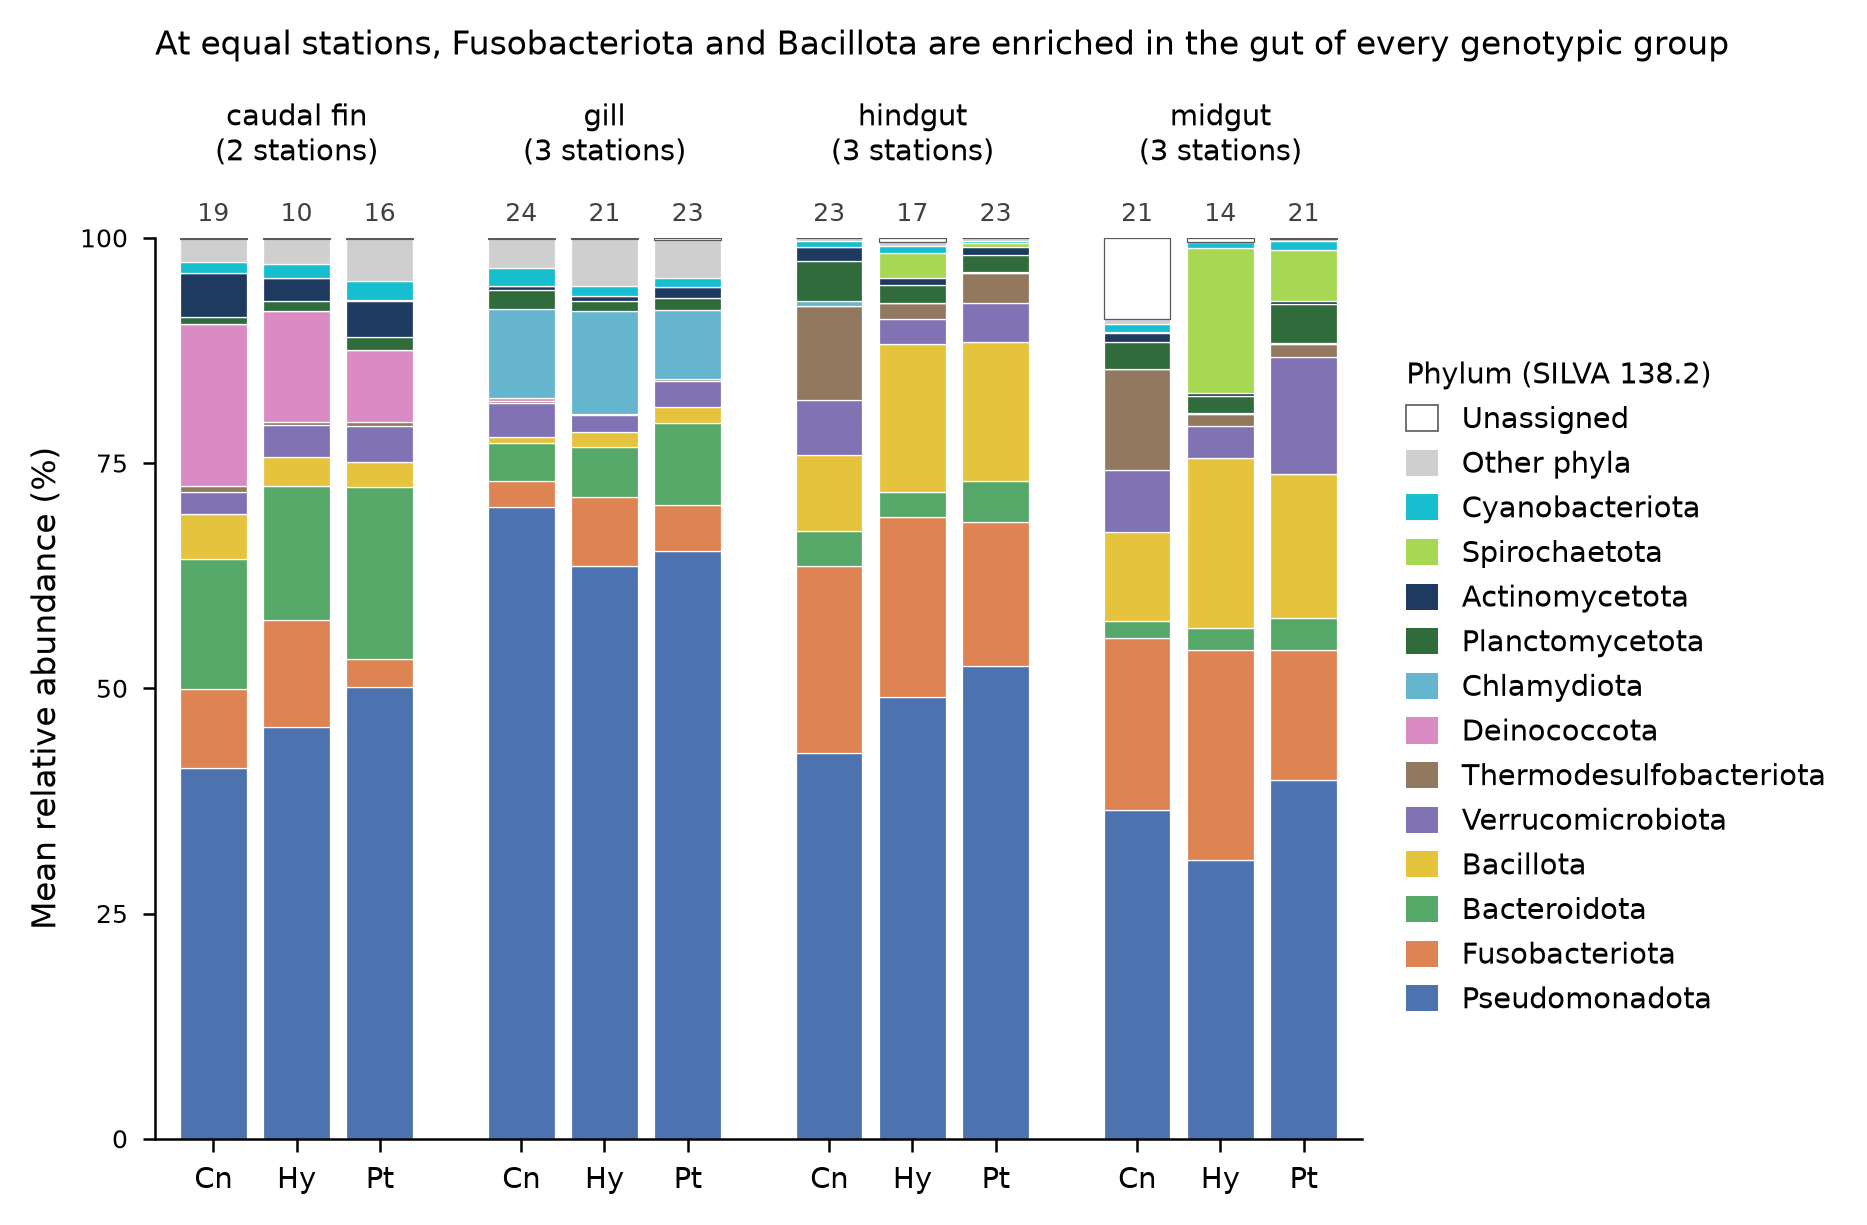
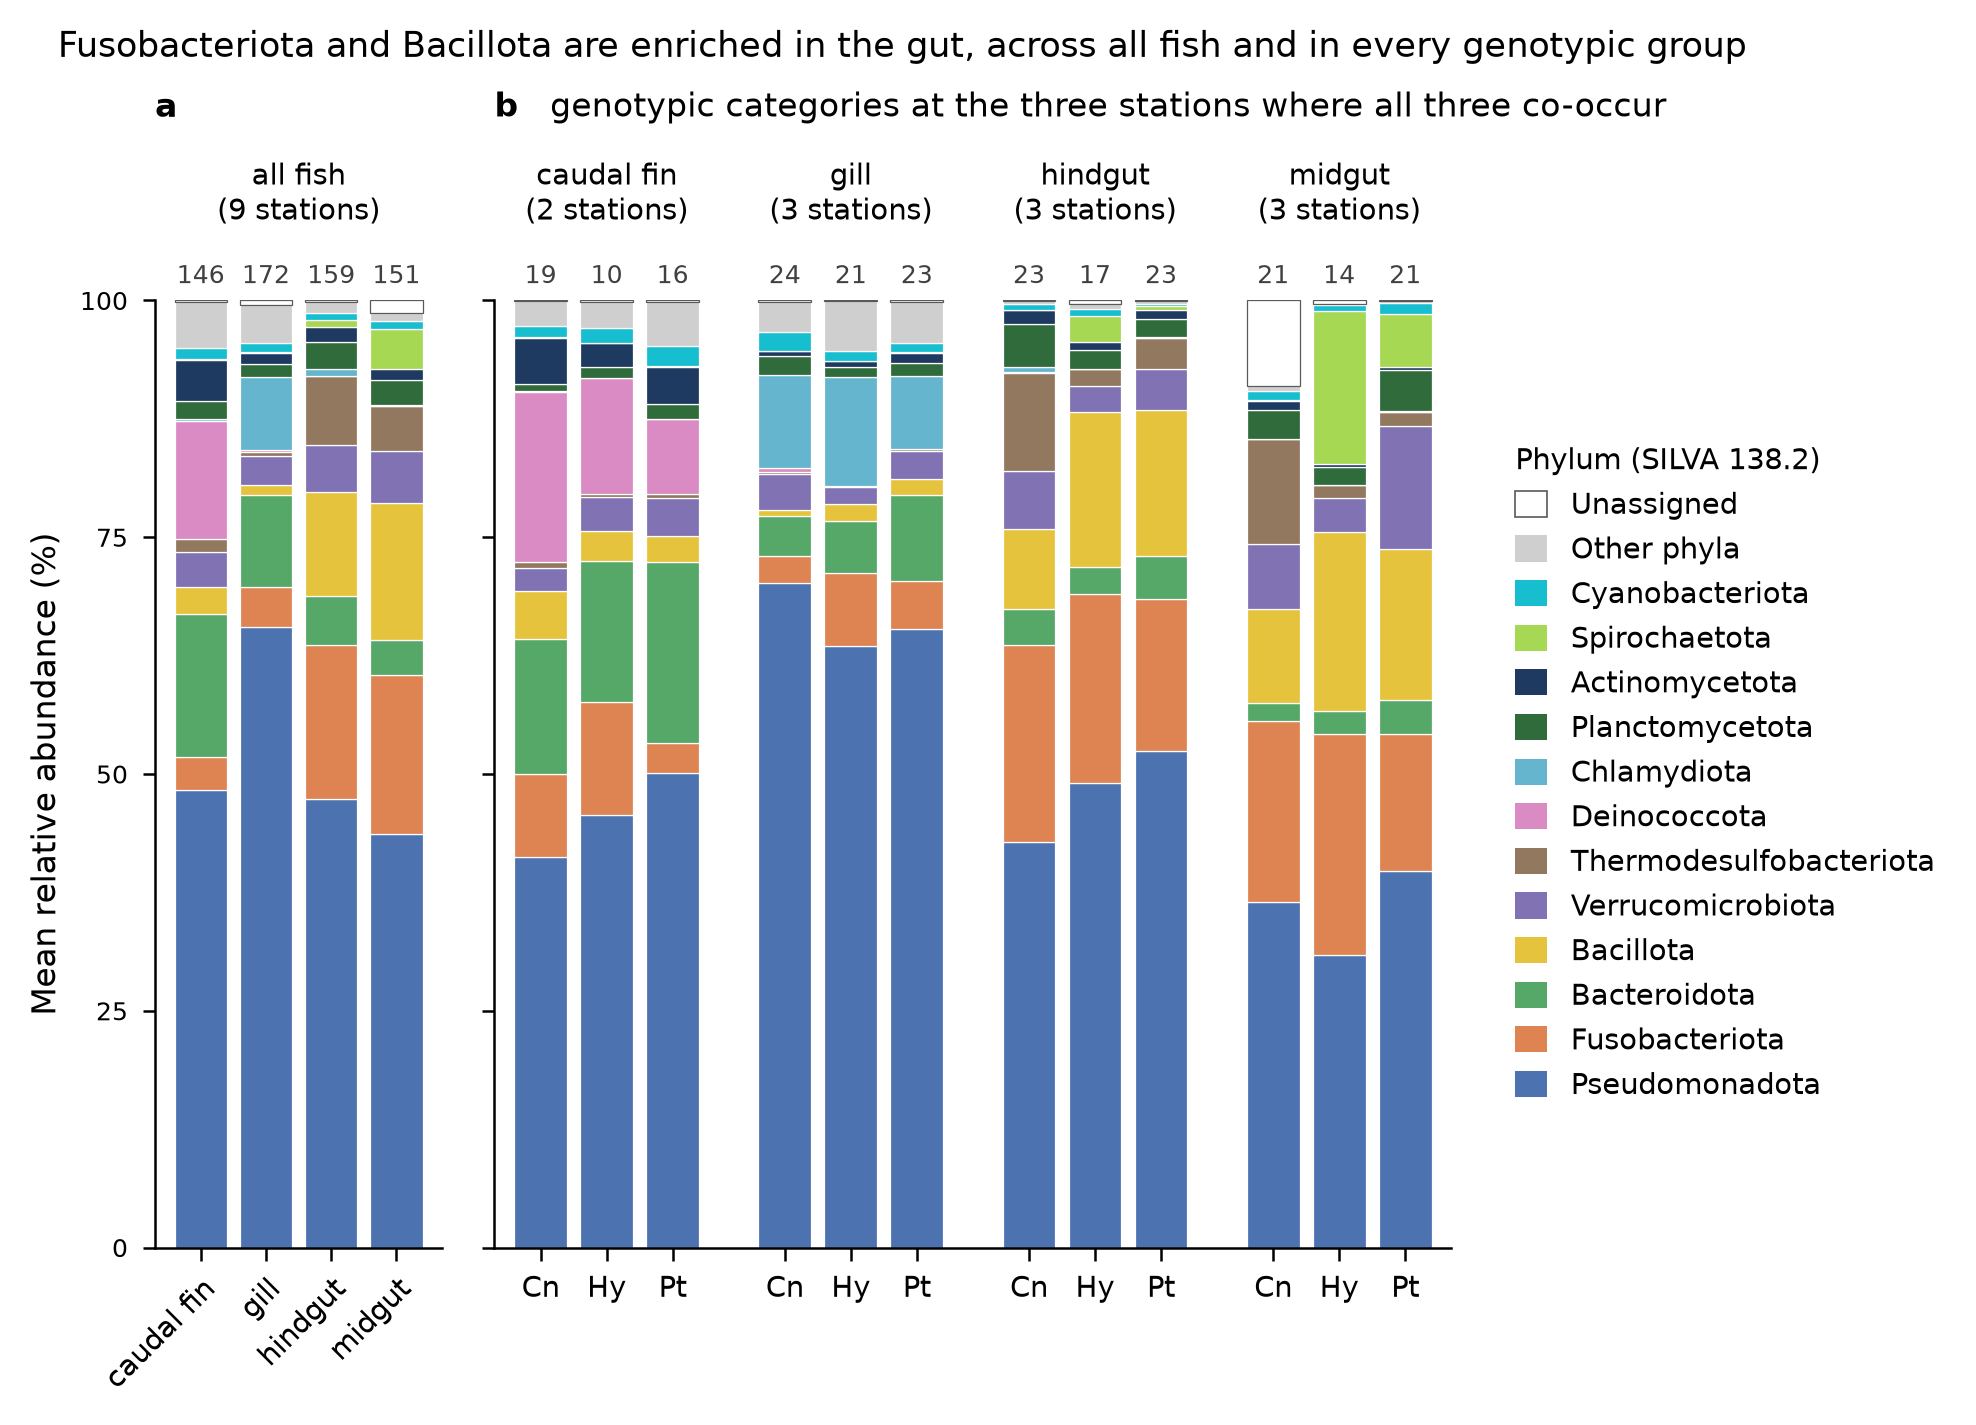
docs: figure S4 a deux panneaux (decision JF 06/10) - a : 4 tissus, tous poissons reunis (scripts/60, d67b3f0 ; poids egal par poisson, ecart <= 2,5 points avec poids egal par station) ; b : trois categories aux trois stations a trois categories (scripts/59). Legende : hybrides regroupes car interme

diff --git a/docs/manuscrit/figures/src/figure_S4_phyla_src.py b/docs/manuscrit/figures/src/figure_S4_phyla_src.py
@@ -1,7 +1,9 @@
 """figure_S4_phyla_src.py — figure supplémentaire : composition en phylums par tissu et catégorie génotypique, aux
 trois stations qui portent les trois catégories (décision de JF du 2026-10-06 ; remplace la version à deux panneaux).
-Entrée : results/phyla_composition/trois_stations.tsv (scripts/59-phyla_trois_stations.py, commit 9aceb57).
-Barre = moyenne à poids égal, sur les stations retenues dans le tissu, du profil moyen de la catégorie ;
+Panneau a (décision de JF du 2026-10-06, 2e version) : tous poissons réunis par tissu, chaque poisson pèse autant
+(results/phyla_composition/tous_poissons.tsv, scripts/60, commit d67b3f0).
+Panneau b : results/phyla_composition/trois_stations.tsv (scripts/59-phyla_trois_stations.py, commit 9aceb57) ;
+barre = moyenne à poids égal, sur les stations retenues dans le tissu, du profil moyen de la catégorie ;
 n = individus, nombre de stations retenues indiqué par tissu.
 """
 import sys
@@ -12,6 +14,7 @@ from matplotlib.patches import Patch
 SRC = sys.argv[1] if len(sys.argv) > 1 else "results/phyla_composition/"
 OUT = sys.argv[2] if len(sys.argv) > 2 else "fig_S4_phyla"
 T = pd.read_csv(SRC + "trois_stations.tsv", sep="\t")
+A = pd.read_csv(SRC + "tous_poissons.tsv", sep="\t").set_index("tissu")
 PHY = [c for c in T.columns if c not in ("tissu", "categorie", "n", "n_stations", "n_par_station") and "__" not in c]
 ORDER = ["Pseudomonadota", "Fusobacteriota", "Bacteroidota", "Bacillota", "Verrucomicrobiota", "Thermodesulfobacteriota",
          "Deinococcota", "Chlamydiota", "Planctomycetota", "Actinomycetota", "Spirochaetota", "Cyanobacteriota",
@@ -24,31 +27,43 @@ COL = {"Pseudomonadota": "#4C72B0", "Fusobacteriota": "#DD8452", "Bacteroidota":
 TIS = [("caudale", "caudal fin"), ("branchie", "gill"), ("hindgut", "hindgut"), ("midgut", "midgut")]   # ordre des Fig. 2-3
 CAT = [("Cn", "Cn"), ("Hy", "Hy"), ("Pt", "Pt")]
 
-fig = plt.figure(figsize=(7.2, 3.9))
-gs = fig.add_gridspec(1, 2, width_ratios=[1, 0.36], wspace=0.04)
-ax = fig.add_subplot(gs[0, 0]); axl = fig.add_subplot(gs[0, 1]); axl.axis("off")
+def stack(ax, x, r):
+    bottom = 0.0
+    for p in ORDER:
+        ax.bar(x, r[p], bottom=bottom, width=0.8, color=COL[p], edgecolor="0.35" if p == "Unassigned" else "white", linewidth=0.3)
+        bottom += r[p]
+    ax.text(x, 1.012, f"{int(r.n)}", ha="center", va="bottom", fontsize=6, color="0.25")
+
+assert np.allclose(A[PHY].sum(1), 1) and sorted(A.index) == sorted(t for t, _ in TIS)
+fig = plt.figure(figsize=(7.2, 4.1))
+gs = fig.add_gridspec(1, 3, width_ratios=[0.30, 1, 0.34], wspace=0.10)
+axa = fig.add_subplot(gs[0, 0]); ax = fig.add_subplot(gs[0, 1], sharey=axa); axl = fig.add_subplot(gs[0, 2]); axl.axis("off")
+for i, (tis, tname) in enumerate(TIS):
+    stack(axa, i, A.loc[tis])
+axa.set_xticks(range(4)); axa.set_xticklabels([t for _, t in TIS], fontsize=7, rotation=45, ha="right", rotation_mode="anchor")
+axa.set_xlim(-0.7, 3.7)
+axa.text(1.5, 1.075, "all fish\n(9 stations)", ha="center", va="bottom", fontsize=7)
 x, xt, xl = 0.0, [], []
 for tis, tname in TIS:
     x0 = x
     for k, lab in CAT:
         r = T[(T.tissu == tis) & (T.categorie == k)]
         assert len(r) == 1, (tis, k)
-        r = r.iloc[0]; bottom = 0.0
-        for p in ORDER:
-            ax.bar(x, r[p], bottom=bottom, width=0.8, color=COL[p], edgecolor="0.35" if p == "Unassigned" else "white", linewidth=0.3)
-            bottom += r[p]
-        ax.text(x, 1.012, f"{int(r.n)}", ha="center", va="bottom", fontsize=6, color="0.25")
-        xt.append(x); xl.append(lab); x += 1.0
+        stack(ax, x, r.iloc[0]); xt.append(x); xl.append(lab); x += 1.0
     ns = int(T[T.tissu == tis].n_stations.iloc[0])
     ax.text((x0 + x - 1.0) / 2, 1.075, f"{tname}\n({ns} stations)", ha="center", va="bottom", fontsize=7)
     x += 0.7
 ax.set_xticks(xt); ax.set_xticklabels(xl, fontsize=7)
-ax.set_xlim(-0.7, x - 1.0); ax.set_ylim(0, 1.0)
-ax.set_yticks([0, 0.25, 0.5, 0.75, 1.0]); ax.set_yticklabels(["0", "25", "50", "75", "100"])
-ax.set_ylabel("Mean relative abundance (%)")
-ax.spines[["top", "right"]].set_visible(False)
-ax.set_title("At equal stations, Fusobacteriota and Bacillota are enriched in the gut of every genotypic group",
-             loc="left", fontsize=8, pad=44)
+ax.set_xlim(-0.7, x - 1.0); axa.set_ylim(0, 1.0)
+axa.set_yticks([0, 0.25, 0.5, 0.75, 1.0]); axa.set_yticklabels(["0", "25", "50", "75", "100"])
+axa.set_ylabel("Mean relative abundance (%)")
+ax.tick_params(axis="y", labelleft=False)
+for a_ in (axa, ax):
+    a_.spines[["top", "right"]].set_visible(False)
+axa.set_title(r"$\bf{a}$", loc="left", fontsize=8, pad=44)
+ax.set_title(r"$\bf{b}$   genotypic categories at the three stations where all three co-occur", loc="left", fontsize=8, pad=44)
+fig.suptitle("Fusobacteriota and Bacillota are enriched in the gut, across all fish and in every genotypic group",
+             x=0.08, ha="left", fontsize=8.5, y=1.10)
 handles = [Patch(facecolor=COL[p], edgecolor="0.35" if p == "Unassigned" else "none", linewidth=0.4, label=p) for p in reversed(ORDER)]
 axl.legend(handles=handles, loc="center left", frameon=False, fontsize=7, handlelength=1.1, handleheight=1.0,
            borderaxespad=0, title="Phylum (SILVA 138.2)", title_fontsize=7, alignment="left")

diff --git a/docs/manuscrit/figures/legende_fig_S4_phyla.md b/docs/manuscrit/figures/legende_fig_S4_phyla.md
@@ -1,11 +1,13 @@
-# Figure S4 — légende (version à un panneau, 2026-10-06 ; remplace la version provisoire à deux panneaux)
+# Figure S4 — légende (version à deux panneaux, 2026-10-06 : a = tous poissons, b = trois stations à trois catégories)
 
-**Figure S4. Phylum-level composition of the 16S microbiota by tissue and genotypic category at the three stations where *C. nasus*, hybrids and *P. toxostoma* co-occur.**
-Stacked bars give mean relative abundances of the twelve most abundant bacterial phyla (SILVA 138.2 nomenclature); remaining phyla are pooled as "Other phyla", and reads not assigned at phylum rank are shown as "Unassigned". Cn, *C. nasus*; Hy, all hybrids (n = 42 in the full dataset, intermediate and near-parental pooled); Pt, *P. toxostoma*. Stations: Canal (usine du Largue), Confluence Buëch-Méouge and Saint-Just-d'Ardèche. Among the 1,784 libraries with ≥ 3,000 reads after decontamination, those from these three stations were converted to relative abundances, averaged per individual × tissue across sequencing runs, then per station and category; each bar is the unweighted mean of the station means, so every station contributes equally and identically to the three categories. Within each tissue a station was kept only if every category had at least two individual profiles; for the caudal fin the Largue canal did not meet this criterion and the bars rest on two stations. Numbers above bars are individuals. Weighting by individuals instead of stations changes any bar segment by at most 6.5 percentage points. The unassigned fraction in the midgut *C. nasus* bar comes from a single individual (Largue canal) in which one amplicon sequence variant unassigned at phylum rank accounts for 80 % of midgut reads; with three *C. nasus* midgut profiles at that station it weighs one ninth of the bar. Correspondence with former names: Pseudomonadota = Proteobacteria; Bacillota = Firmicutes (including Mollicutes/Mycoplasmatales, formerly Tenericutes); Bacteroidota = Bacteroidetes; Fusobacteriota = Fusobacteria; Thermodesulfobacteriota includes the former Deltaproteobacteria (Desulfuromonadia, Desulfovibrionia, Desulfobulbia); Actinomycetota = Actinobacteria; Cyanobacteriota = Cyanobacteria. The figure is descriptive; category contrasts are tested at ASV level in the main text.
+**Figure S4. Phylum-level composition of the 16S microbiota by tissue (a) in all fish and (b) by genotypic category at the three stations where *C. nasus*, hybrids and *P. toxostoma* co-occur.**
+Stacked bars give mean relative abundances of the twelve most abundant bacterial phyla (SILVA 138.2 nomenclature); remaining phyla are pooled as "Other phyla", and reads not assigned at phylum rank are shown as "Unassigned". Libraries with ≥ 3,000 reads after decontamination (1,784 libraries) were converted to relative abundances and averaged per individual × tissue across sequencing runs (628 profiles from 180 individuals). Numbers above bars are individuals. (a) All individuals of the nine stations and all genotypic categories pooled; each fish weighs equally. Giving each station equal weight instead changes any bar segment by at most 2.5 percentage points. (b) Cn, *C. nasus*; Hy, all hybrids, intermediate and near-parental pooled; Pt, *P. toxostoma*. Stations: Canal (usine du Largue), Confluence Buëch-Méouge and Saint-Just-d'Ardèche. Because station is the main source of variation in community composition, categories are compared at equal stations: profiles were averaged per station and category, and each bar is the unweighted mean of the station means, so every station contributes equally and identically to the three categories. Within each tissue a station was kept only if every category had at least two individual profiles; for the caudal fin the Largue canal did not meet this criterion and the bars rest on two stations. Weighting by individuals instead of stations changes any bar segment by at most 6.5 percentage points. Intermediate and near-parental hybrids are pooled because they are unevenly distributed among stations (8 intermediate and 2 near-parental at Confluence Buëch-Méouge, 1 and 5 at Saint-Just-d'Ardèche): under the same two-profile criterion a four-category comparison would retain a single station per tissue. The unassigned fraction in the midgut *C. nasus* bar comes from a single individual (Largue canal) in which one amplicon sequence variant unassigned at phylum rank accounts for 80 % of midgut reads; with three *C. nasus* midgut profiles at that station it weighs one ninth of the bar. Correspondence with former names: Pseudomonadota = Proteobacteria; Bacillota = Firmicutes (including Mollicutes/Mycoplasmatales, formerly Tenericutes); Bacteroidota = Bacteroidetes; Fusobacteriota = Fusobacteria; Thermodesulfobacteriota includes the former Deltaproteobacteria (Desulfuromonadia, Desulfovibrionia, Desulfobulbia); Actinomycetota = Actinobacteria; Cyanobacteriota = Cyanobacteria. The figure is descriptive; category contrasts are tested at ASV level in the main text.
 
 ## Traçabilité
-- Données : `results/phyla_composition/trois_stations.tsv` (scripts/59-phyla_trois_stations.py, commit 9aceb57) ; profils individuels `results/phyla_composition/profils_individus.tsv` (scripts/58, commit 33257e3).
-- Tracé : `docs/manuscrit/figures/src/figure_S4_phyla_src.py`.
-- Titre vérifié sur les 12 barres : *Fusobacteriota* minimum digestif 0,145 (Pt) à 0,20 (Hy) > maximum externe 0,051 (Pt) à 0,119 (Hy) ; *Bacillota* minimum digestif 0,085 (Cn) > maximum externe 0,050 (Cn) ; *Pseudomonadota* premier phylum dans les 12 barres.
-- Individu à part non assignée : 2015_Caa_1003, midgut, ASV0185 (Kingdom Bacteria, phylum non assigné), 8 326 / 10 407 lectures sur trois runs. Règle « ≥ 2 profils par catégorie » fixée avant calcul, non modifiée.
+- Panneau a : `results/phyla_composition/tous_poissons.tsv` (scripts/60-phyla_tous_poissons.py, commit d67b3f0, md5 27d4a15d1bf3738da5e4784994ace51f) ; témoins : écart individu / station ≤ 2,5 points (midgut, Fusobacteriota) ; moyenne pondérée par n = phyla.tsv à 4,7 × 10⁻⁷ près.
+- Panneau b : `results/phyla_composition/trois_stations.tsv` (scripts/59, commit 9aceb57) ; profils `profils_individus.tsv` (scripts/58, commit 33257e3).
+- Justification « station = principale source de variation » : R23 (station 14–29 %, catégorie 1,3–3,7 %, médianes par métrique, deux passes).
+- Titre vérifié : panneau a, Fusobacteriota digestif 16,3–16,8 % vs externe 3,5–4,2 %, Bacillota 11,0–14,5 % vs 1,1–2,9 % ; panneau b, dans chacun des trois groupes, minimum digestif > maximum externe pour les deux phylums.
+- Effectifs à quatre catégories aux trois stations (individus × tissu, Cn/int/pp/Pt) : une seule station par tissu atteint ≥ 2 profils partout (branchie Largue, caudale Buëch, hindgut Largue, midgut Buëch). Les quasi-purs sont 19 proches de Pt et 3 proches de Cn (2015_Avi_1001, 2015_Avi_1011, 2015_Jus_1016).
+- Individu à part non assignée : 2015_Caa_1003, midgut, ASV0185 (Kingdom Bacteria), 8 326 / 10 407 lectures sur trois runs.
 - Point d'appel proposé : première phrase de Results « Composition by genotypic category » (à valider par JF).
